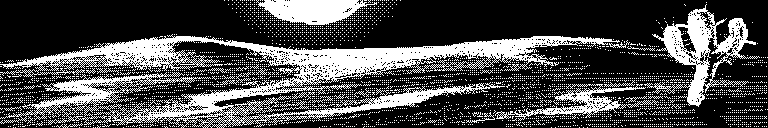
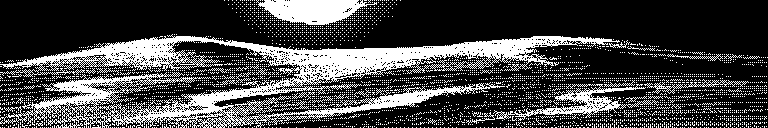
Add Cave Tileset and Background.  Improve Desert background.

Changed region(s): [[0.75, 0.0625, 1.0, 1.0], [0.0, 0.9062, 0.3125, 1.0]]

diff --git a/assets/data/tilesets/cave.tsx b/assets/data/tilesets/cave.tsx
@@ -1,0 +1,36 @@
+<?xml version="1.0" encoding="UTF-8"?>
+<tileset name="Dungeon" tilewidth="32" tileheight="32">
+ <image source="data/tilesets/cave.png" width="96" height="96"/>
+ <tile id="0">
+  <properties>
+   <property name="block" value="true"/>
+   <property name="name" value="wall"/>
+   <property name="density" value=".6"/>
+  </properties>
+ </tile>
+ <tile id="1">
+  <properties>
+   <property name="block" value="false"/>
+   <property name="name" value="floor"/>
+  </properties>
+ </tile>
+ <tile id="2">
+  <properties>
+   <property name="block" value="true"/>
+   <property name="name" value="null"/>
+   <property name="density" value=".3"/>
+  </properties>
+ </tile>
+ <tile id="3">
+  <properties>
+   <property name="block" value="false"/>
+   <property name="name" value="up"/>
+  </properties>
+ </tile>
+ <tile id="5">
+  <properties>
+   <property name="block" value="false"/>
+   <property name="name" value="down"/>
+  </properties>
+ </tile>
+</tileset>
